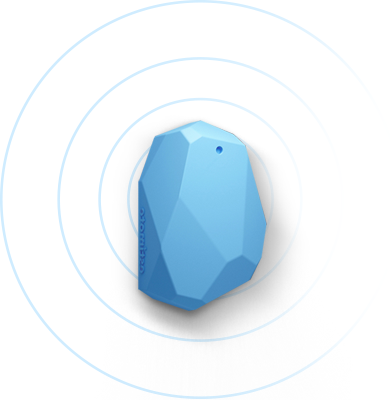
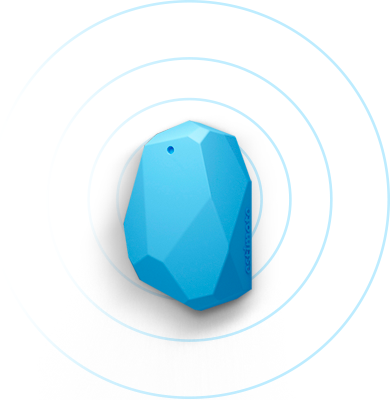
rework_img

diff --git a/Beacon!/app/css/main.css b/Beacon!/app/css/main.css
@@ -1,41 +1,4 @@
 @charset "UTF-8";
-@media (max-width: 992px) {
-  .nav-btn_wrapper {
-    margin-top: 30px;
-    margin-bottom: 30px;
-    margin-left: 0px !important; }
-  .nav {
-    padding-right: 0 !important; }
-    .nav ul {
-      flex-direction: column; }
-  .step-item_wrapper {
-    margin: 0px !important; }
-  .product-description {
-    font-size: 22px;
-    height: auto !important; } }
-
-@media (max-width: 425px) {
-  .social-icon a {
-    margin: 10px 5px !important; }
-  .mail {
-    font-size: 18px !important;
-    padding: 20px 5px !important; }
-  .tel {
-    font-size: 18px !important; }
-  .step-item a {
-    padding: 0.2em 0.8em !important;
-    font-size: 18px !important; }
-  .steps-description {
-    font-size: 22px !important; } }
-
-@media (max-width: 1200px) {
-  .h-img {
-    left: -200px !important; } }
-
-@media (min-width: 2000px) {
-  .right-img {
-    width: 550px !important; } }
-
 /* end var */
 .toggle-hamburger {
   background-color: #fff;
@@ -287,6 +250,15 @@
   background: url("/img/wall-form.jpg") no-repeat;
   background-size: cover; }
 
+.top_beacon {
+  background: url("/img/top_beacon.png") no-repeat;
+  background-size: cover;
+  top: -35px;
+  right: 0px;
+  position: absolute;
+  height: 620px;
+  width: 500px; }
+
 .top-beacon {
   position: absolute;
   top: 0;
@@ -307,7 +279,8 @@
 .steps-title {
   text-align: center;
   font-size: 36px;
-  font-weight: 700; }
+  font-weight: 700;
+  position: relative; }
 
 .step-item_wrapper {
   padding: 50px 0px;
@@ -446,6 +419,48 @@
   .FDH span {
     font-size: 16px;
     color: #fff; }
+
+@media (max-width: 992px) {
+  .nav-btn_wrapper {
+    margin-top: 30px;
+    margin-bottom: 30px;
+    margin-left: 0px; }
+  .nav {
+    padding-right: 0; }
+    .nav ul {
+      flex-direction: column; }
+  .step-item_wrapper {
+    margin: 0px; }
+  .product-description {
+    font-size: 22px;
+    height: auto; } }
+
+@media (max-width: 425px) {
+  .social-icon a {
+    margin: 10px 5px; }
+  .mail {
+    font-size: 18px;
+    padding: 20px 5px; }
+  .tel {
+    font-size: 18px; }
+  .step-item a {
+    padding: 0.2em 0.8em;
+    font-size: 18px; }
+  .steps-description {
+    font-size: 22px; } }
+
+@media (max-width: 1200px) {
+  .h-img {
+    left: -200px; } }
+
+@media (min-width: 2000px) {
+  .right-img {
+    width: 550px; }
+  .top_beacon {
+    top: -50px;
+    right: -112px;
+    height: 852px;
+    width: 800px; } }
 
 body {
   margin: 0;

diff --git a/Beacon!/app/sass/_media.sass b/Beacon!/app/sass/_media.sass
@@ -6,21 +6,21 @@
     .nav-btn_wrapper
         margin-top:  30px
         margin-bottom: 30px
-        margin-left: 0px !important
+        margin-left: 0px
         
 
     .nav
-        padding-right: 0 !important
+        padding-right: 0
         
         ul
             flex-direction: column
 
     .step-item_wrapper
-        margin: 0px !important
+        margin: 0px
     
     .product-description
         font-size: 22px
-        height: auto !important
+        height: auto
 
 
 
@@ -30,23 +30,23 @@
     .social-icon
 
         a
-            margin: 10px 5px !important
+            margin: 10px 5px 
 
     .mail
-        font-size: 18px !important
-        padding: 20px 5px !important
+        font-size: 18px 
+        padding: 20px 5px 
 
     .tel
-        font-size: 18px !important
+        font-size: 18px 
 
     .step-item
 
         a
-            padding: 0.2em 0.8em !important
-            font-size: 18px !important
+            padding: 0.2em 0.8em 
+            font-size: 18px 
 
     .steps-description
-        font-size: 22px !important
+        font-size: 22px 
     
 
 
@@ -54,11 +54,17 @@
 
 @media (max-width: 1200px)
     .h-img
-        left: -200px !important
+        left: -200px 
 
 
 
 
 @media (min-width: 2000px)
     .right-img
-        width: 550px !important
+        width: 550px 
+
+    .top_beacon
+        top: -50px
+        right: -112px
+        height: 852px
+        width: 800px

diff --git a/Beacon!/app/sass/_steps.sass b/Beacon!/app/sass/_steps.sass
@@ -13,6 +13,14 @@
     background: url('/img/wall-form.jpg') no-repeat
     background-size: cover
 
+.top_beacon
+    background: url('/img/top_beacon.png') no-repeat
+    background-size: cover
+    top: -35px
+    right: 0px
+    position: absolute
+    height: 620px
+    width: 500px
     
 
 .top-beacon
@@ -37,6 +45,7 @@
     text-align: center
     font-size: 36px
     font-weight: 700
+    position: relative
 
 .step-item_wrapper
     padding: 50px 0px

diff --git a/Beacon!/app/index.html b/Beacon!/app/index.html
@@ -198,6 +198,9 @@
     <div class="steps">
 
         <div class="right-img d-none d-lg-block ">
+            <div class="top_beacon">
+                
+            </div>
             
         </div>
 

diff --git a/Beacon!/app/sass/main.sass b/Beacon!/app/sass/main.sass
@@ -1,10 +1,11 @@
-@import "media"
+
 @import "vars"
 @import "hamburger"
 @import "header"
 @import "product"
 @import "steps"
 @import "footer"
+@import "media"
 
 body
     margin: 0
